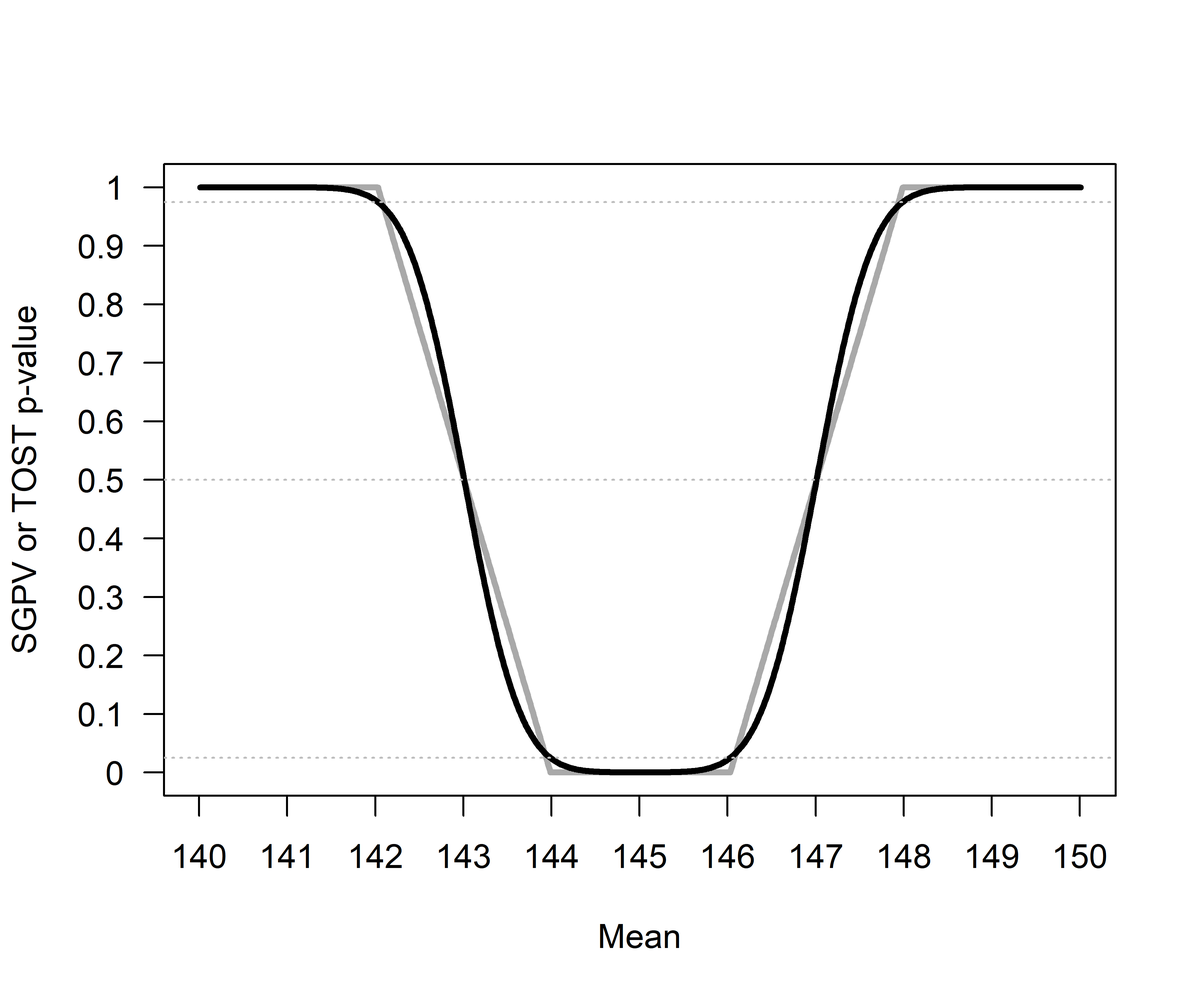
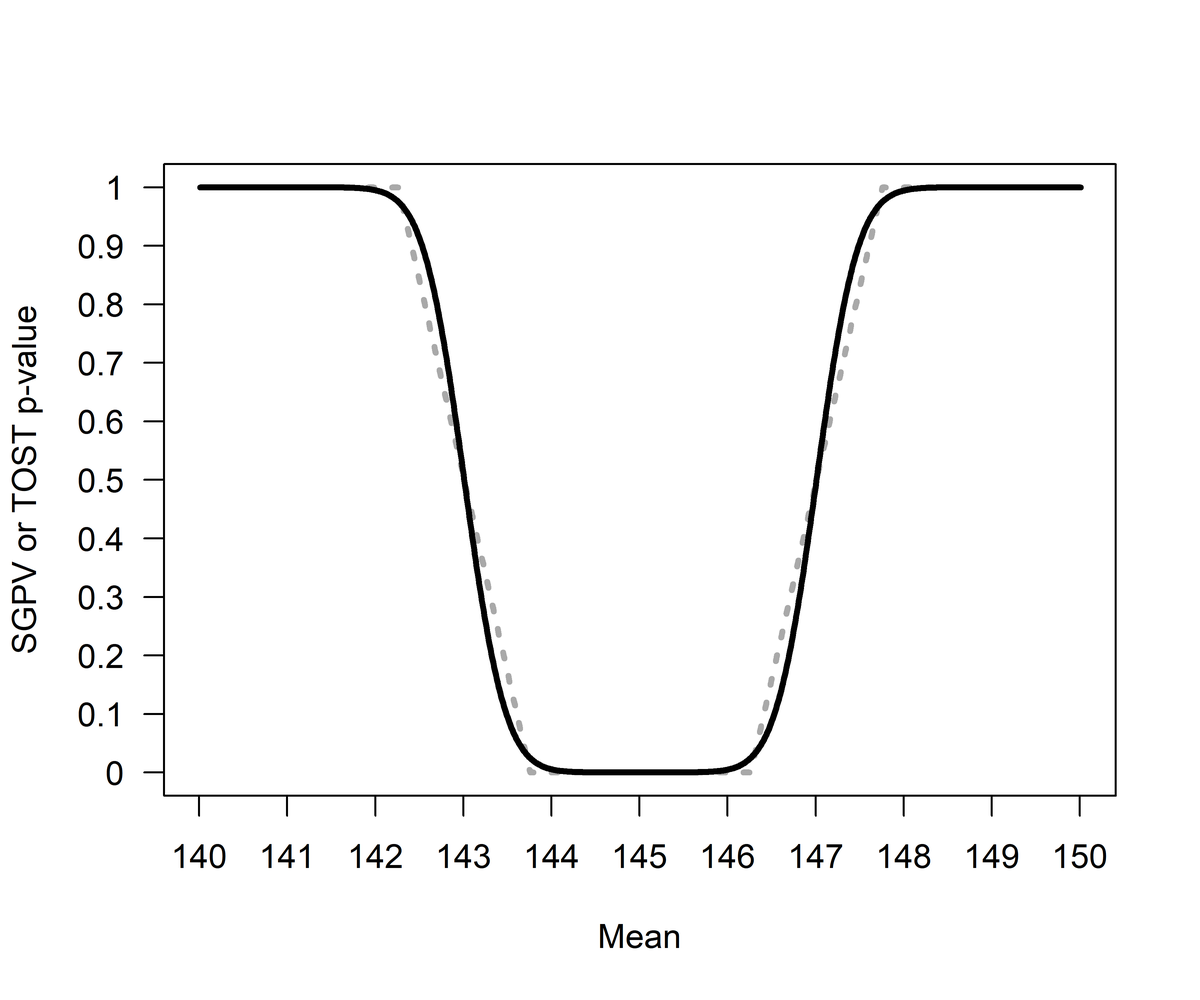
incorporated changes from google doc, rewrote discussion.

diff --git a/sgpv_vs_TOST.md b/sgpv_vs_TOST.md
@@ -1,28 +1,28 @@
 Equivalence Testing and the Second Generation P-Value
 ================
 Daniël Lakens & Marie Delacre
-15 august 2018
+16 august 2018
 
 The RMarkdown file with the reproducible code of this text is [here](https://github.com/Lakens/TOST_vs_SGPV/blob/master/sgpv_vs_TOST.Rmd).
 
-The second generation *p*-value (SGPV) is a new descriptive statistic that was recently proposed to "improve rigor, reproducibility and transparency across science" (Blume, D'Agostino McGowan, Dupont, & Greevy, (2018). The SGPV is 'the proportion of data-supported hypotheses that are also null hypotheses'. The researcher specify an equivalence range around the null hypothesis that specifies values that are considered practically equivalent to the null-hypothesis. The SGPV is the proportion of the confidence interval (CI) around the observed effect estimate that falls within this equivalence range. If the CI falls completely inside the equivalence range the SGPV is 1, and if the CI falls completely outside the equivalence range the SGPV is 0.
+To test predictions most researchers predominantly rely on null-hypothesis tests. This statistical approach can be used to examine whether observed data is sufficiently surprising under the null hypothesis to reject an effect size of zero. Null-hypothesis tests have an important limitation, in that this procedure can only reject the hypothesis that there is no effect, while scientists should also be able to provide statistical support for *equivalence*. When testing for equivalence researchers aim to examine whether the effect is practically zero, or that there is no meaninful effect. By specifying a range around the the null hypothesis of values that are deemed practically equivalent to the absence of an effect (i.e., 0 ± 0.3) the observed data can be compared against an *equivalence range* and researchers can test if a meaningful effect is absent (e.g., Hauk & Anderson, 1985; Kruschke, 2018; Metzler, 1974; Rogers, Howard, & Vessey, 1993; Serlin & Lapsey, 1985; Spiegelhalter, Freedman, & Parmar, 1994; Wellek, 2010; Westlake, 1972).
 
-The SGPV has strong similarities with an already existing approach known as equivalence testing (Lakens, 2017; Rogers, Howard, & Vessey, 1993). In an equivalence test, an equivalence range is based upon a smallest effect size of interest. In the Two One-Sided Tests (TOST) approach to equivalence testing data is tested against the upper and lower bounds of the equivalence range (e.g., a difference of -2 and +2). If both one-sided tests reject the presence of effects more extreme than the equivalence bounds we can act as if there is no meaningful effect. Because two one-sided tests are performed, equivalence can be declared when a 1-2\*alpha CI (e.g., when the alpha level is 0.05, a 90% CI) falls completely within the equivalence range of -2 and +2.
+Second generation p-values (SGPV) were recently proposed to as a descriptive statistic that can loosely be interpreted as ‘the proportion of data-supported hypotheses that are also null hypotheses’ (Blume, D’Agostino McGowan, Dupont, & Greevy, 2018). The researcher specifies an equivalence range around a classical simple null hypothesis of parameter values that are considered practically equivalent to the null hypothesis. The SGPV measures the degree to which a set of data-supported parameter values falls within the interval null hypothesis. If the estimation interval falls completely within the equivalence range, the SGPV is 1. If it lies beyond the equivalence range, the SGPV is 0. Otherwise the SGPV is a value between 0 and 1 that expresses the overlap of data-supported hypotheses and the equivalence range. When calculating the SGPV the set of data-supported parameter values can be represented by a confidence interval (CI) or credible intervals or Likelihood support intervals (SI). When a confidence interval is used, the SGPV and equivalence tests such as the Two One-Sided Tests (TOST) procedure (Lakens, 2017; Meyners, 2012; Schuirman, 1987) appear to have close ties. Here, we aim to examine the similarities and differences between the TOST procedure and the SGPV.
 
-Surprisingly, Blume et al (2018) do not discuss equivalence testing in their article, despite the strong conceptual similarities. Here, we aim to examine the similarities and differences between equivalence testing using the TOST procedure and the SGPV. Our goal is to allow researchers to choose the statistic that best answers the question they are interested in.
+The TOST procedure also relies on the confidence interval around the effect. In the TOST procedure the data is tested against the lower equivalence bound in the first one-sided test, and against the upper equivalence bound in the second one-sided test. If both tests allow you to reject an effect as extreme or more extreme than the equivalence bound, you can reject the presence of an effect large enough to be meaningful, and conclude the observed effect is practically equivalent to zero. Because one-sided tests are performed, one can also conclude equivalence by checking whether the 1-2\*alpha confidence interval (e.g., when the alpha level is 0.05, a 90% CI) falls completely within the equivalence bounds. Because both equivalence tests as the SGPV are based on whether and how much a confidence interval overlaps with equivalence bounds, it seems logical to compare the newly proposed SGPV to equivalence tests.
 
 The relationship between *p*-values from TOST and SGPV
 ======================================================
 
-In the plot below *p*-values are calculated for the TOST equivalence testing procedure where a true population mean ranging from 140 to 150 is compared to the test value of 145 in a one-sample equivalence test where equivalence bounds are set to difference of -2 and +2 around the test value of 145. In other words, the equivalence range in the test contains all means between 143 and 147. Blume et al (2018) rely on the z-distribution, while to TOST package uses the *t*-distribution (which is more accurate at smaller sample sizes). To make sure the SGPV give basically identical results, sample sizes consist of 1000000 observations (for which the *t*-distribution and z-distribution are basically identical). The population standard deviation is set to 500 to still give some variation in responses. Our conclusions should hold to the same extend for more realistic numbers (e.g., N = 100, SD = 1).
+To examine the relation between the TOST p-value and the SGPV we can calculate both statistics across a range of observed effect sizes. In Figure 1 *p*-values are plotted for the TOST procedure and the SGPV. The statistics are calculated for one-sample *t*-tests where the observed mean in the sample ranges from 140 to 150 (on the x-axis), the equivalence range is set to 145 ± 2 (i.e., an equivalence range from 143 to 147), a standard deviation of 2 and a sample size of 100. Our conclusions about the relationship between TOST *p*-values and SGPV in this article are not dependent upon any specific example.
 
-![](sgpv_vs_TOST_files/figure-markdown_github/unnamed-chunk-4-1.png) *Figure 1*: Comparison of *p*-values from TOST (black line) and SGPV (dotted grey line) across a range of true population means (x-axis) tested against a mean of 145 in a one-sample *t*-test with a sample size of 1000000 and a standard deviation of 500.
+![](sgpv_vs_TOST_files/figure-markdown_github/unnamed-chunk-4-1.png) *Figure 1*: Comparison of *p*-values from TOST (black line) and SGPV (dotted grey line) across a range of true population means (x-axis) tested against a mean of 145 in a one-sample *t*-test with a sample size of 100 and a standard deviation of 2.
 
-The SGPV treats the equivalence range as the null-hypothesis, while the TOST procedure treats the values outside of the equivalence range as the null-hypothesis. For ease of comparison we can reverse the SGPV (by calculating 1-SGPV) to make the two tests more comparable. We see that the *p*-value from the TOST procedure and the SGPV follow each other closely. ![](sgpv_vs_TOST_files/figure-markdown_github/1-sgpv_tost-1.png)
+The SGPV treats the equivalence range as the null-hypothesis, while the TOST procedure treats the values outside of the equivalence range as the null-hypothesis. For ease of comparison we can reverse the SGPV (by calculating 1-SGPV) to make the values more easily comparable. We see that the *p*-value from the TOST procedure and the SGPV follow each other closely. ![](sgpv_vs_TOST_files/figure-markdown_github/1-sgpv_tost-1.png)
 
-*Figure 2*: Comparison of *p*-values from TOST (black line) and 1-SGPV (dotted grey line) across a range of true population means (x-axis) tested against a mean of 145 in a one-sample *t*-test with a sample size of 1000000 and a standard deviation of 500.
+*Figure 2*: Comparison of *p*-values from TOST (black line) and 1-SGPV (dotted grey line) across a range of true population means (x-axis) tested against a mean of 145 in a one-sample *t*-test with a sample size of 100 and a standard deviation of 2.
 
-When the population mean is 145 and we are testing against equivalence bounds of 143 and 147 using the TOST procedure for a one-sample *t*-test with a sample size of 1000000 and a standard deviation of 500, the equivalence test is significant, *t*(999999) = 4, *p* = 0.0000317. Because the 95% CI falls completely within the equivalence bounds, the SGPV is 1 (see Figure 1).
+When the observed sample mean is 145 and we are testing against equivalence bounds of 143 and 147 using the TOST procedure for a one-sample *t*-test with a sample size of 100 and a standard deviation of 2, the equivalence test is significant, *t*(999999) = 4, *p* = 0.0000317. Because the 95% CI falls completely within the equivalence bounds, the SGPV is 1 (see Figure 1).
 
 One the other hand, if the observed mean is 140, the equivalence test is not significant (the observed mean is far outside the equivalence range of 143 to 147), *t*(999999) = -6, *p* = 1 (or more accurately, *p* &gt; .999 as *p*-values are bounded between 0 and 1). Because the 95% CI falls completely outside the equivalence bounds, the SGPV is 0 (see Figure 1).
 
@@ -81,31 +81,51 @@ The effect of assymetric confidence intervals is most easily noticable at smalle
 
 The reason that the equivalence test and SGPV no longer overlap is also because of asymmetric confidence intervals. If the observed correlation falls exactly on the equivalence bound the *p*-value for the equivalence test indicates that the probability of observing the observed or more extreme data, assuming the equivalence bound is the true effect size, is 50%. In other words, if the true effect size is the same as the equivalence bound, it is equally likely to find an effect more extreme than the equivalence bound, as it is to observe an effect that is less extreme than the equivalence bound. However, as can be seen in Figure 12, the two second generation *p*-values associated with the observed correlations at r = -0.45 and r = 0.45 are 0.581. Because the confidence intervals are asymmetric around the observed effect size of 0.45 (ranging from 0.11 to 0.7) according to Blume et al. (2018) 58.1% of the data-supported hypotheses are null hypotheses, and therefore 58.1% of the data-supported hypotheses are compatible with the null premise. ![](sgpv_vs_TOST_files/figure-markdown_github/unnamed-chunk-25-1.png) *Figure 12*: Three 95% confidence intervals for observed effect sizes of r = -0.45, r = 0, and r = 0.45 for n = 30. Only the confidence interval for r = 0 is symmetric.
 
-This example illustrates the difference between a proportion and a probability. There is always a 50% probability of observing a correlation smaller or larger than the true correlation, but the SGPV for this situation depends on how far away the observed correlation is from 0. The further away from 0, the larger the SGPV when the observed mean falls on the equivalence bound. The SGPV is the proportion of values in a 95% confidence interval that overlap with the equivalence range, but not the probability that these values will be observed. In the most extreme case (i.e., a sample size of 4, and equivalence bounds set to r = -0.99 and 0.99, with an observed correlation of 0.99) 97.6% of the confidence interval overlaps with the equivalence range, even though in the long run only 50% of the correlations observed in the future will fall in this range. It should be noted that in larger sample sizes the SGPV is closer to 0.5 whenever the observed correlation falls on the equivalence bound, but this extreme example nevertheless clearly illustrates the difference between two different questions the SGPV and a *p*-value are answers to. The conclusion of this in depth look at asymmetric confidence intervals is that, while a SGPV of 1 or 0 can still be interpreted the same way as a *p*-value of 0.025 and 0.975 can be interpreted in n equivalence test, since the SGPV and *p*-value for the TOST procedure are always directly related at these values. Although Blume et al (2018, p. 3) state that "the degree of overlap conveys how compatible the data are with the null premise" this definition of what the SGPV provides does not hold for asymmetric confidence intervals. Although a SGPV of 1 or 0 can be directly interpreted, a SGPV between 0 and 1 is not interpretable as 'compatibility with the null hypothesis'. When the observed correlation equals an equivalence bound, 50% of the normally distributed data is compatible with the null hypothesis (i.e., falls within the equivalence range), even when the SGPV is larger than 0.5.
+This example illustrates the difference between a proportion and a probability. There is always a 50% probability of observing a correlation smaller or larger than the true correlation, but the SGPV for this situation depends on how far away the observed correlation is from 0. The further away from 0, the larger the SGPV when the observed mean falls on the equivalence bound. The SGPV is the proportion of values in a 95% confidence interval that overlap with the equivalence range, but not the probability that these values will be observed. In the most extreme case (i.e., a sample size of 4, and equivalence bounds set to r = -0.99 and 0.99, with an observed correlation of 0.99) 97.6% of the confidence interval overlaps with the equivalence range, even though in the long run only 50% of the correlations observed in the future will fall in this range. It should be noted that in larger sample sizes the SGPV is closer to 0.5 whenever the observed correlation falls on the equivalence bound, but this extreme example nevertheless clearly illustrates the difference between two different questions the SGPV and a *p*-value are answers to. The conclusion of this in depth look at asymmetric confidence intervals is that, while a SGPV of 1 or 0 can still be interpreted the same way as a *p*-value of 0.025 and 0.975 can be interpreted in n equivalence test, since the SGPV and *p*-value for the TOST procedure are always directly related at these values. Although Blume et al (2018, p. 3) state that "the degree of overlap conveys how compatible the data are with the null premise" this definition of what the SGPV provides does not hold for asymmetric confidence intervals. Although a SGPV of 1 or 0 can be directly interpreted, a SGPV between 0 and 1 is not interpretable as 'compatibility with the null hypothesis'. Indeed, Blume and colleagues write in the supplemental material that "The magnitude of an inconclusive second-generation *p*-value can vary slightly when the effect size scale is transformed. However definitive findings, i.e. a p-value of 0 or 1 are *not* affected by the scale changes."
 
 What are the Relative Strengths and Weaknesses of Equivalence Testing and SGPV?
 -------------------------------------------------------------------------------
 
-Given the strong relationship between SGPV and equivalence testing, a logical question is to ask what the introduction of SGPV adds to the existing statistical approaches, including equivalence tests, and what the relative strengths and weaknesses of either approach are. First of all, SGPV is a descriptive statistic (unlike the *p*-value that is calculated for an equivalence test, which is an inferential statistic). It numerically summarizes the information that is visually present in a plot (such as Figure 3) displaying the equivalence range and the 95% CI around the observed effect.
+Given the strong relationship between SGPV and equivalence testing, a logical question is to ask what the introduction of SGPV adds to the existing statistical approaches, including equivalence tests, and what the relative strengths and weaknesses of either approach are. First of all, SGPV is a descriptive statistic (unlike the *p*-value that is calculated for an equivalence test, which is an inferential statistic). It numerically summarizes the information that is visually present in a plot of the equivalence range and the confidence interval around the observed effect (for example, see Figure 3).
 
-The SGPV is 1 for tests where *p*-values for the TOST procedure differ. For example, different equivalence tests with *p* = 0.024 and *p* = 0.0001 have a SGPV of 1. Although a SGPV of 1 or 0 has a clear interpretation (we can reject effects outside or inside the equivalence range) intermediate values are not as easy to interpret (e.g., it is unclear how we would interpret a SGPV of 0.56 versus 0.65). Since the SGPV is always directly related to a *p*-value from the TOST procedure, different SGPV can be interpreted in the same manner as different *p*-values. From a Fisherian viewpoint, the lower the *p*-value, the worse the fit of the data with a specific model, and analogously, the lower the SGPV the worse the fit of the data with the equivalence range. From a Neyman-Pearson approach to statistics, only the dichotomous rejection of values outside of the equivalence range (TOST *p* &lt; *α* or SGPV = 1) allows you to act as if the null-hypothesis is true while controlling our error rate at a known maximum.
+One benefit of *p*-values over the SGPV is that the SGPV is 0, 0.5, or 1 for a range of observed effects where *p*-values for the TOST procedure continue to differentiate. For example, different equivalence tests with *p* = 0.024 and *p* = 0.0001 have a SGPV of 1. The SGPV provides on average less information than *p*-values.
 
-One weakness of the SGPV is its reliance on the 'small sample correction', where the SGPV is set to 0.5 whenever the ratio of the confidence interval width to the equivalence range exceeds 2:1 and the CI overlaps with the upper and lower bounds. This exception to the normal calculation of the SGPV is introduced to prevent misleading values. Without this correction it is possible that a confidence interval is extremely wide, and an equivalence range is extremely narrow, which without the correction would lead to a very low value for the SGPV, which as Blume et al (2018, p. 7) seems to suggest that 'the data favor alternative hypotheses', even when the data is just extremely inaccurate compared to the width of the equivalence range. Although setting the SGPV to 0.5 whenever the ratio of the confidence interval width to the equivalence range exceeds 2:1 is necessary to prevent misleading results, it leads to a range of situations where the SGPV is set to 0.5, while the *p*-value from the TOST procedure continues to differentiate (see Figure 6).
+A possible weakness of the SGPV is that even though a SGPV of 1 or 0 has a clear interpretation (we can reject effects outside or inside the equivalence range), intermediate values are not as easy to interpret (especially for effects that have asymmetric confidence intervals). This is not too problematic, since the main use of the SGPV (e.g., in all examples provided by Blume and colleagues) is to examine whether the SGPV is 0 or 1, or whether the SGPV is inconclusive. This interpretation of a SGPV as allowing researchers to reject the null, reject the presence of a meaningful effect, or remaining inconclusive is very similar to the Neyman-Pearson interpretation of combining a null-hypothesis test and an equivalence test (Lakens, Isager, & Scheel, 2018), although the latter approach also allows researchers to conclude an effect is significant *and* equivalent (i.e., statistically different from zero, but also too small to be considered meaningful). Thus, *p*-values can be interpreted in continuous matter, which is more difficult for the SGPV, and the SGPV is used to classify results into one of three possible outcome, while equivalence tests classify results into four possible outcomes.
+
+One weakness of the SGPV is its reliance on the 'small sample correction', where the SGPV is set to 0.5 whenever the ratio of the confidence interval width to the equivalence range exceeds 2:1 and the CI overlaps with the upper and lower bounds. This exception to the normal calculation of the SGPV is introduced to prevent misleading values. Without this correction it is possible that a confidence interval is extremely wide, and an equivalence range is extremely narrow, which without the correction would lead to a very low value for the SGPV, which as Blume et al (2018, p. 7) seems to suggest that 'the data favor alternative hypotheses', even when the data is just extremely inaccurate compared to the width of the equivalence range. Although setting the SGPV to 0.5 whenever the ratio of the confidence interval width to the equivalence range exceeds 2:1 is necessary to prevent misleading results, it leads to a range of situations where the SGPV is set to 0.5, while the *p*-value from the TOST procedure continues to differentiate (see Figure 6). An important benefit of equivalence tests is that is does not need such a correction to prevent misleasing results.
 
 As a more extreme example of the peculiar behavior of the 'small sample correction' as currently implemented in the calculation of the SGPV see Figure 13 below. In this figure observed correlations (from a sample size of 10) from -1 to 1 are tested against against an equivalence range from r = 0.4 to r = 0.8. We can see the SGPV has a peculiar shape because it is set to 0.5 for certain observed correlations, even though there is no risk of meaningless SGPV in this range. This example suggests that the current implementation of the 'small sample correction' could be improved.
 
 ![](sgpv_vs_TOST_files/figure-markdown_github/unnamed-chunk-28-1.png) *Figure 13*: Comparison of *p*-values from TOST (black line) and 1-SGPV (dotted grey curve) across a range of observed sample correlations (x-axis) tested against equivalence bounds of r = 0.4 and r = 0.8 with n = 10 and an alpha of 0.05.
 
-Discussion
+Conclusion
 ==========
 
-It seems Blume et al (2018) where not aware of the existence of equivalence tests, and we believe that our explanation of the similarities between the TOST procedure and the SGPV provides some useful context to interpret the contribution of second generation *p*-values to the statistical toolbox. The novelty lies in its use as a descriptive statistic. The added benefit of calculating the proportion of overlap of a 95% CI with the equivalence range, and using this percentage to describe the data, remains somewhat unclear for practical purposes. Nevertheless, our only goal is to clarify the relationship between a newly proposed statistic and the already existing TOST approach used to test for equivalence, and let researchers make an informed decision about which statistical approach provides the best answer to their question.
+We believe that our explanation of the similarities between the TOST procedure and the SGPV provides some useful context to interpret the contribution of second generation *p*-values to the statistical toolbox. The novelty lies in its use as a descriptive statistic. There are strong similarities with *p*-values from the TOST procedure, and in all situations where the statistics yield different results, the behavior of the *p*-value from the TOST procedure is more consistent. We hope this overview of the relationship between the SGPV and equivalence tests will help researchers to make an informed decision about which statistical approach provides the best answer to their question.
 
 References
 ==========
 
-Blume, J. D., D'Agostino McGowan, L., Dupont, W. D., & Greevy, R. A. (2018). Second-generation *p*-values: Improved rigor, reproducibility, & transparency in statistical analyses. PLOS ONE, 13(3), e0188299. <https://doi.org/10.1371/journal.pone.0188299>
+Blume, J. D., McGowan, L. D., Dupont, W. D., & Greevy, R. A. (2018). Second-generation p-values: Improved rigor, reproducibility, & transparency in statistical analyses. PLOS ONE, 13(3), e0188299. <https://doi.org/10.1371/journal.pone.0188299>
+
+Hauck, D. W. W., & Anderson, S. (1984). A new statistical procedure for testing equivalence in two-group comparative bioavailability trials. Journal of Pharmacokinetics and Biopharmaceutics, 12(1), 83–91. <https://doi.org/10.1007/BF01063612>
+
+Kruschke, J. K. (2018). Rejecting or Accepting Parameter Values in Bayesian Estimation. Advances in Methods and Practices in Psychological Science, 2515245918771304. <https://doi.org/10.1177/2515245918771304>
 
 Lakens, D. (2017). Equivalence Tests: A Practical Primer for t Tests, Correlations, and Meta-Analyses. Social Psychological and Personality Science, 8(4), 355–362. <https://doi.org/10.1177/1948550617697177>
 
+Lakens, D., Scheel, A. M., & Isager, P. M. (2018). Equivalence Testing for Psychological Research: A Tutorial. Advances in Methods and Practices in Psychological Science, 2515245918770963. <https://doi.org/10.1177/2515245918770963>
+
+Meyners, M. (2012). Equivalence tests – A review. Food Quality and Preference, 26(2), 231–245. <https://doi.org/10.1016/j.foodqual.2012.05.003>
+
 Rogers, J. L., Howard, K. I., & Vessey, J. T. (1993). Using significance tests to evaluate equivalence between two experimental groups. Psychological Bulletin, 113(3), 553–565. <http://dx.doi.org/10.1037/0033-2909.113.3.553>
+
+Schuirmann, D. J. (1987). A comparison of the two one-sided tests procedure and the power approach for assessing the equivalence of average bioavailability. Journal of Pharmacokinetics and Biopharmaceutics, 15(6), 657–680.
+
+Serlin, R. C., & Lapsley, D. K. (1985). Rationality in psychological research: The good-enough principle.
+
+Spiegelhalter, D. J., Freedman, L. S., & Parmar, M. K. (1994). Bayesian approaches to randomized trials. Journal of the Royal Statistical Society. Series A (Statistics in Society), 357–416. <https://doi.org/10.2307/2983527>
+
+Wellek, S. (2010). Testing statistical hypotheses of equivalence and noninferiority (2nd ed). Boca Raton: CRC Press.
+
+Westlake, W. J. (1972). Use of confidence intervals in analysis of comparative bioavailability trials. Journal of Pharmaceutical Sciences, 61(8), 1340–1341.
